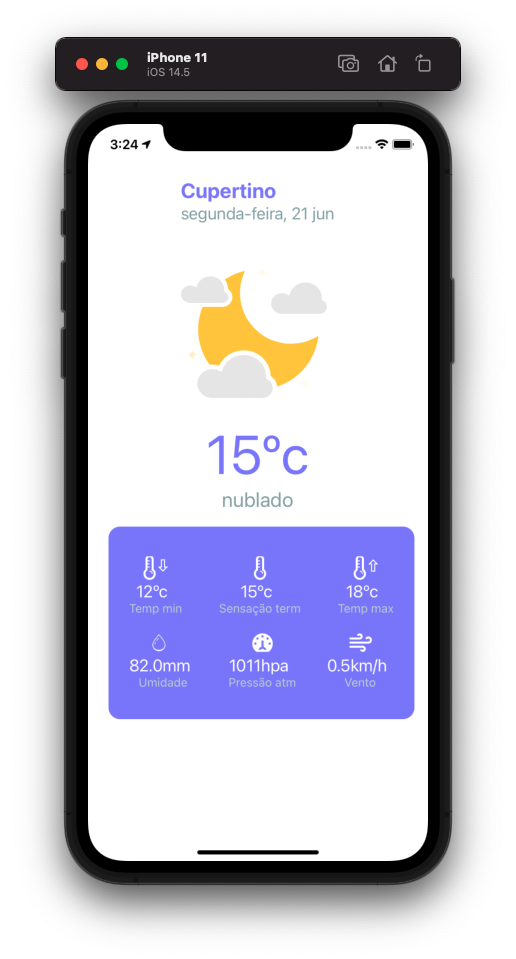
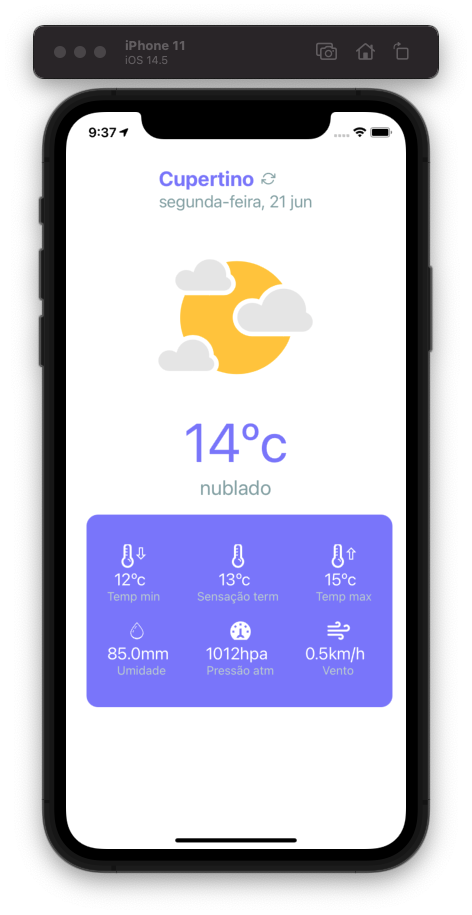
fix: added reload function

diff --git a/src/screens/Home/index.tsx b/src/screens/Home/index.tsx
@@ -3,13 +3,21 @@ import { ActivityIndicator } from 'react-native'
 import { format } from 'date-fns'
 import { useTheme } from 'styled-components'
 
-import { Container, Box, Text, LottieWrapper, InfoItem } from '@components'
+import {
+  Container,
+  Box,
+  Text,
+  LottieWrapper,
+  InfoItem,
+  Pressable,
+  Icon,
+} from '@components'
 import { IScreenDefault } from '@interfaces/screen'
 import { useWeatherInfo } from '@services/api/hooks'
 import { getDefaultLocale } from '@services/locale'
 
 const Home: React.FC & IScreenDefault = () => {
-  const { data, loading, currentAnimation } = useWeatherInfo()
+  const { data, loading, currentAnimation, reload } = useWeatherInfo()
   const theme: any = useTheme()
 
   const date = React.useMemo(
@@ -33,9 +41,29 @@ const Home: React.FC & IScreenDefault = () => {
     <Container ph={6}>
       <Box flexDir="column" justifyContent="center" alignItems="center" mt={2}>
         <Box mb={2} flexDir="column">
-          <Text fontSize={6} weight="bold" color="brand" translate={false}>
-            {data?.name}
-          </Text>
+          <Box flexDir="row">
+            <Text
+              fontSize={6}
+              weight="bold"
+              color="brand"
+              translate={false}
+              mr={2}
+            >
+              {data?.name}
+            </Text>
+            <Pressable
+              onPress={reload}
+              alignItems="center"
+              justifyContent="center"
+            >
+              <Icon
+                name="reload"
+                strokeColor="grey.400"
+                width={17}
+                height={17}
+              />
+            </Pressable>
+          </Box>
           <Text fontSize={5} color="grey.400" translate={false}>
             {date}
           </Text>

diff --git a/src/services/api/hooks/weather.ts b/src/services/api/hooks/weather.ts
@@ -1,12 +1,12 @@
 import React from 'react'
 
 import { ANIMATION_BY_TYPE } from '@constants/weather'
-import { useLocationStore } from '@services/store'
 import { getDefaultLanguage } from '@services/locale'
+import { useGetLocation } from './location'
 import { useFetch } from './base'
 
 export const useWeatherInfo = () => {
-  const { location } = useLocationStore()
+  const { location, loadLocation } = useGetLocation()
   const { data, loading, refetch } = useFetch(
     `&lat=${location?.latitude}&lon=${
       location?.longitude
@@ -14,18 +14,22 @@ export const useWeatherInfo = () => {
   )
 
   const currentAnimation = React.useMemo(() => {
-    const isNight = new Date()?.getHours() >= 18 ? 'night' : 'day'
+    const timeOfDay = new Date()?.getHours() >= 18 ? 'night' : 'day'
 
     if (!data || !data?.weather?.length)
-      return ANIMATION_BY_TYPE?.clear[isNight ? 'night' : 'day']
+      return ANIMATION_BY_TYPE?.clear[timeOfDay]
 
     const result = ANIMATION_BY_TYPE?.[data?.weather[0]?.main?.toLowerCase()]
-
     if (result?.day) {
-      return result[isNight ? 'night' : 'day']
+      return result[timeOfDay]
     }
     return result
   }, [data])
 
-  return { data, loading, refetch, currentAnimation }
+  const reload = async () => {
+    await loadLocation()
+    refetch()
+  }
+
+  return { data, loading, refetch, currentAnimation, reload }
 }

diff --git a/src/assets/icons/index.js b/src/assets/icons/index.js
@@ -4,3 +4,4 @@ export { default as temperature } from './temperature.svg'
 export { default as wind } from './wind.svg'
 export { default as humidity } from './humidity.svg'
 export { default as pressure } from './pressure.svg'
+export { default as reload } from './reload.svg'
